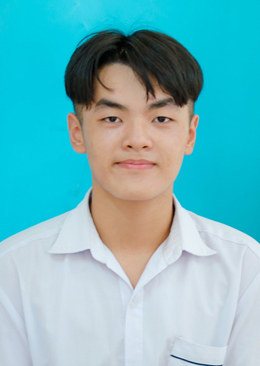
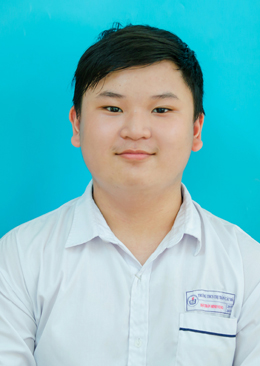
anooooo

diff --git a/edge_product/frontend-edge/src/components/crew/DetailCertificatesModal.tsx b/edge_product/frontend-edge/src/components/crew/DetailCertificatesModal.tsx
@@ -38,7 +38,7 @@ export function DetailCertificatesModal({ isOpen, onClose, onSave }: DetailCerti
 
   const loadCountries = async () => {
     try {
-      const response = await fetch('http://localhost:5001/api/countries')
+      const response = await fetch('/api/countries')
       const data = await response.json()
       setCountries(data)
     } catch (error) {
@@ -66,7 +66,7 @@ export function DetailCertificatesModal({ isOpen, onClose, onSave }: DetailCerti
         validityPeriodMonths: formData.validityPeriodMonths ? parseInt(formData.validityPeriodMonths) : null
       }
 
-      const response = await fetch('http://localhost:5001/api/certificates', {
+      const response = await fetch('/api/certificates', {
         method: 'POST',
         headers: { 'Content-Type': 'application/json' },
         body: JSON.stringify(certificatePayload)
@@ -85,7 +85,7 @@ export function DetailCertificatesModal({ isOpen, onClose, onSave }: DetailCerti
           certificateId: createdCertificate.id
         }))
 
-        await fetch('http://localhost:5001/api/country-certificates/batch', {
+        await fetch('/api/country-certificates/batch', {
           method: 'POST',
           headers: { 'Content-Type': 'application/json' },
           body: JSON.stringify(countryAssociations)

diff --git a/edge_product/frontend-edge/src/pages/Crew/CrewDetailPage.tsx b/edge_product/frontend-edge/src/pages/Crew/CrewDetailPage.tsx
@@ -477,8 +477,8 @@ export function CrewDetailPage() {
           if (imageUrl.startsWith('data:')) {
             doc.addImage(imageUrl, 'JPEG', photoX + 1, photoY + 1, photoW - 2, photoH - 2)
           } else {
-            if (!imageUrl.startsWith('http')) {
-              imageUrl = `http://localhost:5001${imageUrl.startsWith('/') ? '' : '/'}${imageUrl}`
+            if (!imageUrl.startsWith('http') && !imageUrl.startsWith('/')) {
+              imageUrl = `/${imageUrl}`
             }
             doc.addImage(imageUrl, 'JPEG', photoX + 1, photoY + 1, photoW - 2, photoH - 2)
           }
@@ -913,8 +913,9 @@ export function CrewDetailPage() {
           if (imageUrl.startsWith('data:')) {
             base64Data = imageUrl.split(',')[1]
           } else {
-            if (!imageUrl.startsWith('http'))
-              imageUrl = `http://localhost:5001${imageUrl.startsWith('/') ? '' : '/'}${imageUrl}`
+            if (!imageUrl.startsWith('http') && !imageUrl.startsWith('/')) {
+              imageUrl = `/${imageUrl}`
+            }
             const resp = await fetch(imageUrl)
             const blob = await resp.blob()
             const reader = new FileReader()

diff --git a/edge_product/frontend-edge/vite.config.ts b/edge_product/frontend-edge/vite.config.ts
@@ -14,13 +14,13 @@ export default defineConfig({
     host: '0.0.0.0', // Allow access from other devices on LAN
     proxy: {
       '/api': {
-        target: 'http://localhost:5001', // Edge Backend API
+        target: process.env.VITE_BACKEND_URL || 'http://localhost:5001', // Edge Backend API
         changeOrigin: true,
         secure: false,
         ws: true,
       },
       '/uploads': {
-        target: 'http://localhost:5001', // Static files from backend
+        target: process.env.VITE_BACKEND_URL || 'http://localhost:5001', // Static files from backend
         changeOrigin: true,
         secure: false,
       },

diff --git a/edge_product/frontend-edge/src/config/app.config.ts b/edge_product/frontend-edge/src/config/app.config.ts
@@ -1,13 +1,13 @@
 // API Configuration
 export const API_CONFIG = {
-  BASE_URL: import.meta.env.VITE_API_URL || 'http://localhost:5001/api',
+  BASE_URL: import.meta.env.VITE_API_URL || '/api',
   TIMEOUT: 30000,
   RETRY_ATTEMPTS: 3,
 }
 
 // WebSocket Configuration
 export const WS_CONFIG = {
-  URL: import.meta.env.VITE_WS_URL || 'ws://localhost:5001/ws',
+  URL: import.meta.env.VITE_WS_URL || `ws://${typeof window !== 'undefined' ? window.location.host : 'localhost:5001'}/ws`,
   RECONNECT_INTERVAL: 5000,
 }
 

diff --git a/edge_product/frontend-edge/src/services/maritime.service.ts b/edge_product/frontend-edge/src/services/maritime.service.ts
@@ -99,7 +99,7 @@ export class MaritimeService {
     } catch (error: any) {
       // Network errors or fetch failures
       if (error.message === 'Failed to fetch') {
-        console.error('❌ Network Error: Cannot connect to backend. Is the server running on http://localhost:5001?')
+        console.error('❌ Network Error: Cannot connect to backend. Is the server running?')
         throw new Error('Cannot connect to server. Please check if backend is running.')
       }
       throw error

diff --git a/shore_product/frontend/vite.config.ts b/shore_product/frontend/vite.config.ts
@@ -14,11 +14,11 @@ export default defineConfig({
     port: 3000,
     proxy: {
       '/api': {
-        target: 'http://localhost:5000',
+        target: process.env.VITE_BACKEND_URL || 'http://localhost:5000',
         changeOrigin: true,
       },
       '/uploads': {
-        target: 'http://localhost:5000',
+        target: process.env.VITE_BACKEND_URL || 'http://localhost:5000',
         changeOrigin: true,
       }
     }

diff --git a/edge_product/edge-services/Services/Core/SyncService.cs b/edge_product/edge-services/Services/Core/SyncService.cs
@@ -118,14 +118,15 @@ public class SyncService : ISyncService
         {
             var client = _httpClientFactory.CreateClient("ShoreAPI");
             
-            // Get last pull timestamp from config or DB
-            var lastPull = await GetLastPullTimestampAsync(context);
+            // Don't use timestamp-based filtering — rely on DeliveredAt IS NULL on shore.
+            // Using 'since' caused items to be missed when ACK failed (items stay undelivered
+            // but lastPull advances past their CreatedAt).
             var cursor = (string?)null;
             var totalProcessed = 0;
 
             do
             {
-                var url = $"{baseUrl}/api/sync/pull?nodeId={nodeId}&since={lastPull:O}";
+                var url = $"{baseUrl}/api/sync/pull?nodeId={nodeId}";
                 if (!string.IsNullOrEmpty(cursor))
                     url += $"&cursor={cursor}";
 
@@ -385,6 +386,7 @@ public class SyncService : ISyncService
 
         var subDir = item.TableName switch
         {
+            "crew_member" => Path.Combine("crew", "avatars"),
             "crew_certificate" => Path.Combine("crew", "certificates"),
             "travel_document" => Path.Combine("crew", "documents", "travel"),
             "seafarer_document" => Path.Combine("crew", "documents", "seafarer"),
@@ -404,7 +406,23 @@ public class SyncService : ISyncService
         var relativePath = $"/uploads/{subDir.Replace(Path.DirectorySeparatorChar, '/')}/{safeFileName}";
 
         // Update entity's file path in DB
-        if (item.TableName == "crew_certificate" && int.TryParse(item.RecordKey, out var certId))
+        if (item.TableName == "crew_member" && Guid.TryParse(item.RecordKey, out var crewGuid))
+        {
+            var crew = await context.CrewMembers.FindAsync(crewGuid);
+            if (crew != null)
+            {
+                if (!string.IsNullOrEmpty(crew.PhotoUrl) && crew.PhotoUrl != relativePath)
+                {
+                    var oldAbsPath = Path.Combine(Directory.GetCurrentDirectory(),
+                        crew.PhotoUrl.TrimStart('/').Replace('/', Path.DirectorySeparatorChar));
+                    if (System.IO.File.Exists(oldAbsPath))
+                        System.IO.File.Delete(oldAbsPath);
+                }
+                crew.PhotoUrl = relativePath;
+                _logger.LogInformation("Saved synced avatar for crew_member/{Key} → {Path}", item.RecordKey, relativePath);
+            }
+        }
+        else if (item.TableName == "crew_certificate" && int.TryParse(item.RecordKey, out var certId))
         {
             var crewCert = await context.CrewCertificates.FindAsync(certId);
             if (crewCert != null)

diff --git a/shore_product/backend/Services/Sync/SyncInboxService.cs b/shore_product/backend/Services/Sync/SyncInboxService.cs
@@ -829,6 +829,7 @@ public class SyncInboxService : ISyncInboxService
                     }
                 }
                 // When edge sends new EdgeChanges, ensure shore marks them as unviewed
+                // But only if the incoming EdgeChanges is DIFFERENT from what was already cleared/viewed
                 if (item.TableName == "crew_member" && existing is Maritime.Shared.Models.Crew.CrewMember crewEntity)
                 {
                     var hasEdgeChangesKey = payloadKeys.Contains("EdgeChanges")
@@ -836,7 +837,14 @@ public class SyncInboxService : ISyncInboxService
                         || payloadKeys.Contains("edge_changes");
                     if (hasEdgeChangesKey && !string.IsNullOrWhiteSpace(crewEntity.EdgeChanges))
                     {
-                        crewEntity.EdgeChangesViewed = false;
+                        // Get the original value before merge to compare
+                        var originalEntry = _context.Entry(existing);
+                        var originalEdgeChanges = originalEntry.Property("EdgeChanges").OriginalValue as string;
+                        // Only reset viewed if edge sent genuinely NEW change data
+                        if (originalEdgeChanges != crewEntity.EdgeChanges)
+                        {
+                            crewEntity.EdgeChangesViewed = false;
+                        }
                     }
                 }
 
@@ -895,6 +903,7 @@ public class SyncInboxService : ISyncInboxService
         }
 
         // When edge sends new EdgeChanges via patch, mark as unviewed on shore
+        // But only if the change data is genuinely NEW (not a re-sync of already-viewed data)
         if (item.TableName == "crew_member" && existing is Maritime.Shared.Models.Crew.CrewMember patchCrew)
         {
             var hasEdgeChangesKey = patchData.Keys.Any(k =>
@@ -902,7 +911,11 @@ public class SyncInboxService : ISyncInboxService
                 || string.Equals(k, "edge_changes", StringComparison.OrdinalIgnoreCase));
             if (hasEdgeChangesKey && !string.IsNullOrWhiteSpace(patchCrew.EdgeChanges))
             {
-                patchCrew.EdgeChangesViewed = false;
+                var originalEdgeChanges = _context.Entry(existing).Property("EdgeChanges").OriginalValue as string;
+                if (originalEdgeChanges != patchCrew.EdgeChanges)
+                {
+                    patchCrew.EdgeChangesViewed = false;
+                }
             }
         }
 

diff --git a/shore_product/backend/Controllers/Crew/CrewController.cs b/shore_product/backend/Controllers/Crew/CrewController.cs
@@ -4,6 +4,8 @@ using Microsoft.EntityFrameworkCore;
 using Maritime.Shared.DTOs.Crew;
 using ProductApi.Data;
 using ProductApi.Services.Crew;
+using ProductApi.Services.Sync;
+using Maritime.Shared.Models.Sync;
 
 namespace ProductApi.Controllers.Crew;
 
@@ -24,12 +26,14 @@ public class CrewController : ControllerBase
     private readonly ICrewService _crewService;
     private readonly ILogger<CrewController> _logger;
     private readonly AppDbContext _context;
+    private readonly ISyncOutboxService _syncOutbox;
 
-    public CrewController(ICrewService crewService, ILogger<CrewController> logger, AppDbContext context)
+    public CrewController(ICrewService crewService, ILogger<CrewController> logger, AppDbContext context, ISyncOutboxService syncOutbox)
     {
         _crewService = crewService;
         _logger = logger;
         _context = context;
+        _syncOutbox = syncOutbox;
     }
 
     // ============================================================
@@ -449,14 +453,10 @@ public class CrewController : ControllerBase
             var crew = await _context.CrewMembers.FindAsync(id);
             if (crew == null) return NotFound(new { error = "Crew member not found" });
 
-            // Attach if detached (global NoTracking) so changes are persisted
-            var entry = _context.Entry(crew);
-            if (entry.State == Microsoft.EntityFrameworkCore.EntityState.Detached)
-                entry.State = Microsoft.EntityFrameworkCore.EntityState.Unchanged;
-
             crew.EdgeChangesViewed = true;
             crew.EdgeChanges = null;
             crew.UpdatedAt = DateTime.UtcNow;
+            _context.CrewMembers.Update(crew);
             await _context.SaveChangesAsync();
 
             return Ok(new { message = "Edge changes marked as viewed" });
@@ -510,9 +510,13 @@ public class CrewController : ControllerBase
 
             crew.PhotoUrl = $"/uploads/crew/avatars/{fileName}";
             crew.UpdatedAt = DateTime.UtcNow;
+            _context.CrewMembers.Update(crew);
             await _context.SaveChangesAsync();
 
             _logger.LogInformation("Uploaded avatar for crew: {Id}", id);
+
+            // Broadcast crew member update to edge so avatar syncs
+            await _syncOutbox.BroadcastAsync("crew_member", id.ToString(), SyncActionType.UPDATE, crew);
 
             var dto = await _crewService.GetCrewByIdAsync(id);
             return Ok(new

diff --git a/shore_product/backend/Controllers/Crew/CertificatesController.cs b/shore_product/backend/Controllers/Crew/CertificatesController.cs
@@ -217,16 +217,12 @@ public class CertificatesController : ControllerBase
         try
         {
             var cert = await _certService.AddCrewCertificateAsync(request);
-            // Broadcast to edge for sync
-            var entity = await _context.CrewCertificates.FindAsync(cert.Id);
-            if (entity != null)
-                await _syncOutbox.BroadcastAsync("crew_certificate", cert.Id.ToString(), SyncActionType.CREATE, entity);
             return Created($"/api/certificates/crew-certificates/{cert.Id}", cert);
         }
         catch (Exception ex)
         {
             _logger.LogError(ex, "Error adding crew certificate");
-            return StatusCode(500, new { error = "Internal server error" });
+            return StatusCode(500, new { error = ex.Message, inner = ex.InnerException?.Message });
         }
     }
 
@@ -239,10 +235,6 @@ public class CertificatesController : ControllerBase
         {
             var cert = await _certService.UpdateCrewCertificateAsync(id, request);
             if (cert == null) return NotFound(new { error = "Crew certificate not found" });
-            // Broadcast to edge for sync
-            var entity = await _context.CrewCertificates.FindAsync(id);
-            if (entity != null)
-                await _syncOutbox.BroadcastAsync("crew_certificate", id.ToString(), SyncActionType.UPDATE, entity);
             return Ok(cert);
         }
         catch (Exception ex)
@@ -261,8 +253,6 @@ public class CertificatesController : ControllerBase
         {
             var result = await _certService.DeleteCrewCertificateAsync(id);
             if (!result) return NotFound(new { error = "Crew certificate not found" });
-            // Broadcast delete to edge for sync
-            await _syncOutbox.BroadcastAsync("crew_certificate", id.ToString(), SyncActionType.DELETE, new { Id = id });
             return Ok(new { message = "Crew certificate deleted" });
         }
         catch (Exception ex)
@@ -384,6 +374,7 @@ public class CertificatesController : ControllerBase
 
             crewCertificate.DocumentFilePath = $"/uploads/crew/certificates/{fileName}";
             crewCertificate.UpdatedAt = DateTime.UtcNow;
+            _context.CrewCertificates.Update(crewCertificate);
             await _context.SaveChangesAsync();
 
             // Broadcast updated certificate to edge with file path

diff --git a/shore_product/backend/Services/Sync/SyncOutboxService.cs b/shore_product/backend/Services/Sync/SyncOutboxService.cs
@@ -71,6 +71,7 @@ public class SyncOutboxService : ISyncOutboxService
             // Deduplication: if an undelivered item for the same (node, table, key) already exists,
             // update its payload and version instead of inserting a duplicate.
             var existing = await _context.SyncOutbox
+                .AsTracking()
                 .Where(o => o.DeliveredAt == null
                          && o.TargetNode == targetNode
                          && o.TableName == tableName
@@ -203,7 +204,7 @@ public class SyncOutboxService : ISyncOutboxService
             // Attach file data for document-related items
             var fileTableNames = new HashSet<string>(StringComparer.OrdinalIgnoreCase)
             {
-                "crew_certificate", "travel_document", "seafarer_document",
+                "crew_member", "crew_certificate", "travel_document", "seafarer_document",
                 "employment_document", "health_document"
             };
             foreach (var dto in response.Items)
@@ -213,7 +214,7 @@ public class SyncOutboxService : ISyncOutboxService
                 {
                     using var doc = System.Text.Json.JsonDocument.Parse(dto.Payload);
                     string? filePath = null;
-                    foreach (var propName in new[] { "documentFilePath", "DocumentFilePath", "filePath", "FilePath", "fileUrl", "FileUrl" })
+                    foreach (var propName in new[] { "documentFilePath", "DocumentFilePath", "filePath", "FilePath", "fileUrl", "FileUrl", "photoUrl", "PhotoUrl" })
                     {
                         if (doc.RootElement.TryGetProperty(propName, out var val))
                         {
@@ -266,6 +267,7 @@ public class SyncOutboxService : ISyncOutboxService
         {
             // Try matching by exact outbox IDs first
             var baseQuery = _context.SyncOutbox
+                .AsTracking()
                 .Where(o => o.DeliveredAt == null)
                 .Where(o => o.TargetNode == nodeId || o.TargetNode == "*");
 

diff --git a/shore_product/backend/Services/Crew/CertificateService.cs b/shore_product/backend/Services/Crew/CertificateService.cs
@@ -257,8 +257,8 @@ public class CertificateService : ICertificateService
             CrewMemberId = request.CrewMemberId,
             CertificateId = request.CertificateId,
             CertificateNumber = request.CertificateNumber,
-            IssueDate = request.IssueDate,
-            ExpiryDate = request.ExpiryDate,
+            IssueDate = DateTime.SpecifyKind(request.IssueDate, DateTimeKind.Utc),
+            ExpiryDate = DateTime.SpecifyKind(request.ExpiryDate, DateTimeKind.Utc),
             IssuingAuthority = request.IssuingAuthority,
             CertificateOfCompetency = request.CertificateOfCompetency,
             CountryId = request.CountryId,
@@ -300,8 +300,8 @@ public class CertificateService : ICertificateService
         if (cc == null) return null;
 
         cc.CertificateNumber = request.CertificateNumber;
-        cc.IssueDate = request.IssueDate;
-        cc.ExpiryDate = request.ExpiryDate;
+        cc.IssueDate = DateTime.SpecifyKind(request.IssueDate, DateTimeKind.Utc);
+        cc.ExpiryDate = DateTime.SpecifyKind(request.ExpiryDate, DateTimeKind.Utc);
         cc.IssuingAuthority = request.IssuingAuthority;
         cc.CertificateOfCompetency = request.CertificateOfCompetency;
         cc.CountryId = request.CountryId;
